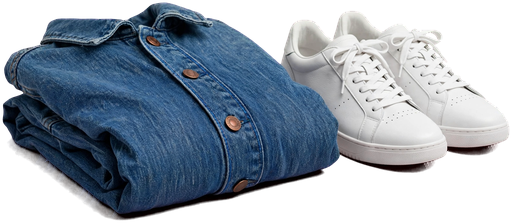
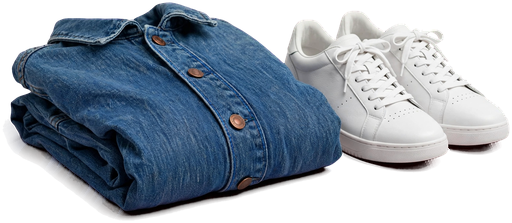
Картинки разделов: детям, хобби и спорт, дом и сад на хромакее; мягкие тени у всех 9
key_art.py: тень и отсвет на фоне — чёрные с прозрачностью по потемнению, только в 60 точках от предмета;
порог против серой дымки от ровного фона (раньше под креслом оставалось белёсое пятно).

diff --git a/tools/key_art.py b/tools/key_art.py
@@ -5,7 +5,8 @@ python3 tools/key_art.py <вход> <выход.png> [размер]
  1. Цвет фона — медиана по рамке кадра.
  2. Прозрачность — по «перевесу» цвета фона (для пурпурного min(R,B)-G, для зелёного G-max(R,B)):
     тень на фоне (тёмно-пурпурная) тоже уходит, нейтральные цвета предмета не трогаются.
- 3. Кайма: у края предмета снимаем оттенок фона (despill).
+ 3. Кайма: у края предмета снимаем оттенок фона (despill). Тень и отсвет на фоне (дальше 4 точек
+    от предмета) — чёрные, прозрачность по тому, насколько фон потемнел: отсвет исчезает, тень мягкая.
  4. С --glass фон, видный сквозь стекло (окна машины), закрашиваем тёмным стеклом; без него просветы прозрачные.
  5. Обрезка по содержимому, почти без полей, уменьшение, края — как в clean_art.
 """
@@ -43,6 +44,21 @@ def key_out(path_in, path_out, size=512, glass=False):
         out[..., 1] -= spill
     else:
         out[..., 0] -= spill; out[..., 2] -= spill
+    # тень и отсвет на фоне: прозрачность — по тому, насколько потемнел фон, цвет — чёрный.
+    # Иначе светлый отсвет фона (под сиденьем кресла) оставался белёсым пятном.
+    tinted = (dom > lo) & ~inner
+    if kind == 'green':
+        dark = 1 - np.clip(g / max(key[1], 1), 0, 1)
+    else:
+        dark = 1 - np.clip(np.maximum(r, b) / max(key[0], key[2], 1), 0, 1)
+    solid = a > 0.95
+    dist = ndimage.distance_transform_edt(~solid)
+    sh = tinted & (dist > 4)
+    # ровный фон тоже чуть темнее медианы — порог, чтобы не было серой дымки; тень только у предмета
+    near = np.clip(1 - (dist - 4) / 60, 0, 1)
+    a[sh] = (np.clip((dark[sh] - 0.1) / 0.9, 0, 1) * 0.8 * near[sh])
+    a[sh & (a < 0.05)] = 0
+    out[sh] = 0
     if glass and inner.any():
         lum = out[inner].mean(axis=1, keepdims=True)
         out[inner] = np.clip(lum * 0.35 + np.array([38, 41, 47]), 0, 255)
